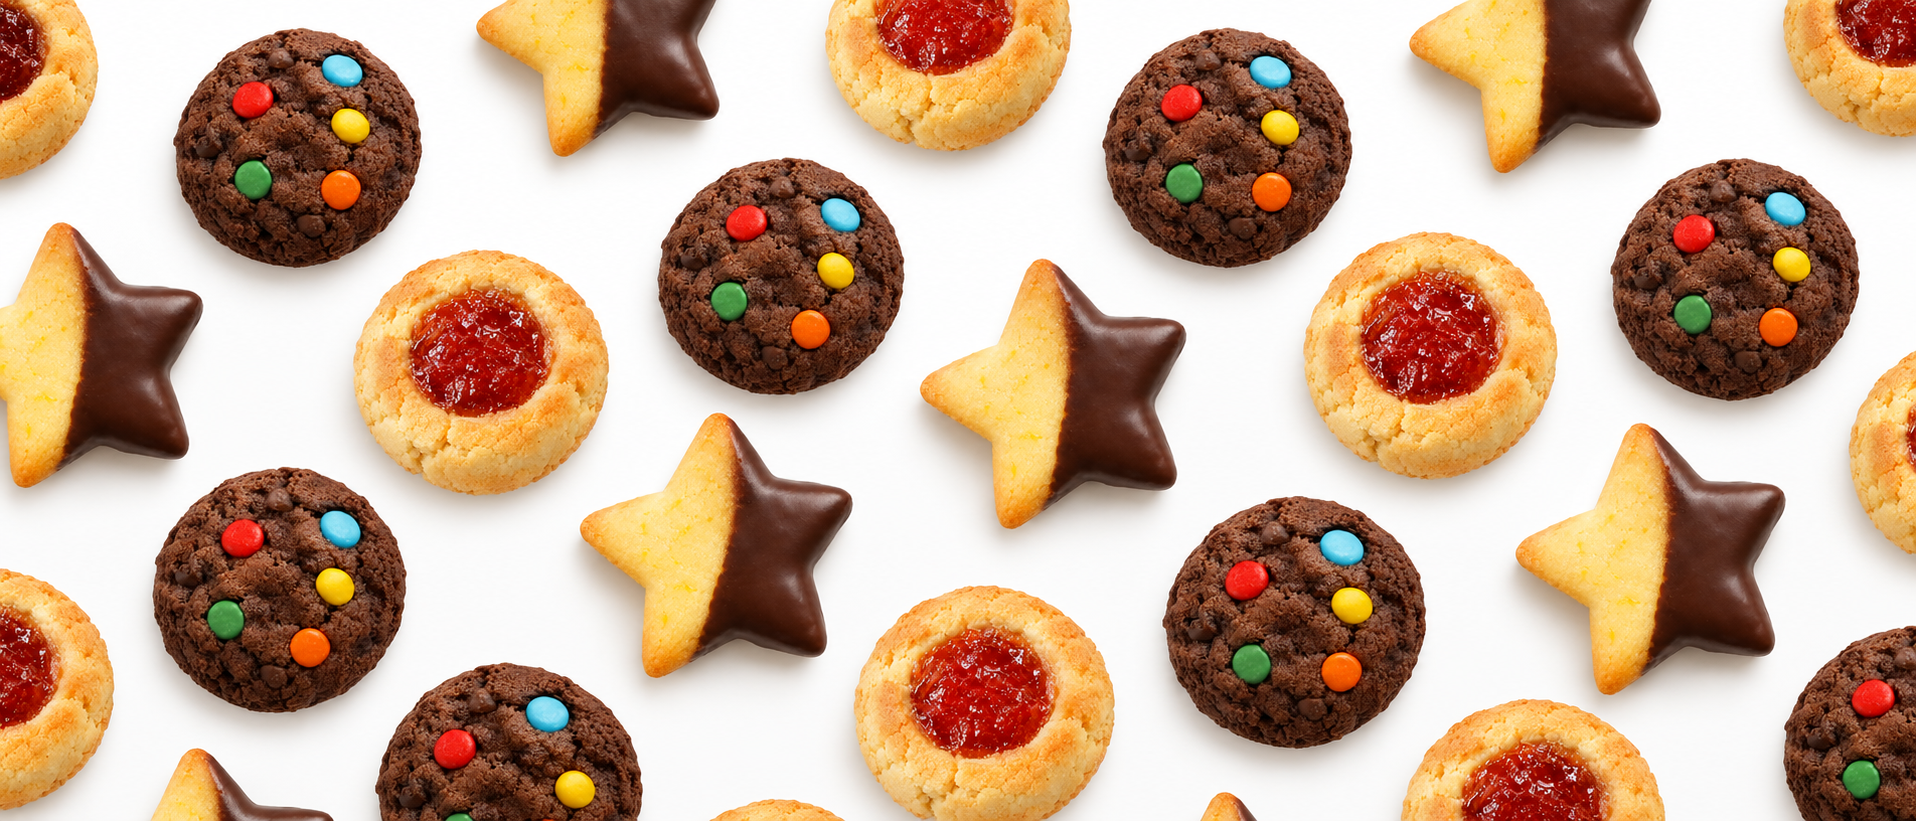
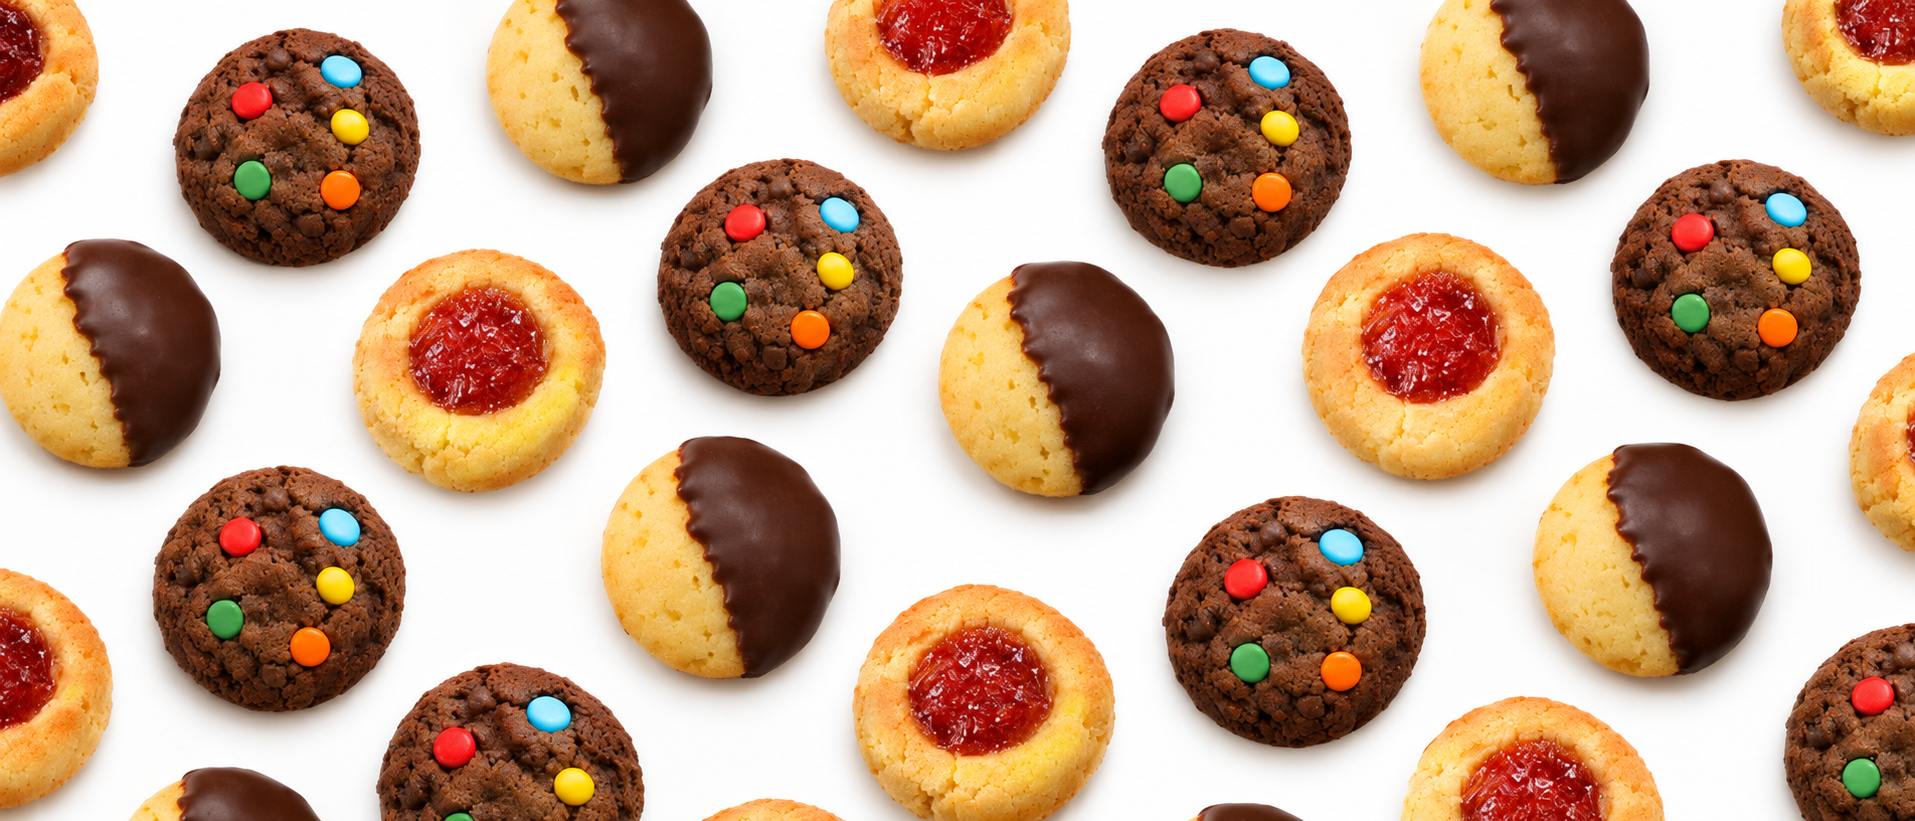
Correcciones de surtido

diff --git a/pedidos-app/public/js/pedido.js b/pedidos-app/public/js/pedido.js
@@ -54,9 +54,9 @@ function crearSurtido() {
     tipo: "surtido",
 
     sabores: {
-      fangio: 0,
-      locomotora: 0,
-      messi: 0
+      fangio: 2,
+      locomotora: 2,
+      messi: 2
     }
   });
 
@@ -331,10 +331,6 @@ function renderSurtido(
   index
 ) {
 
-  const total =
-    totalSurtido(paquete);
-
-
   return `
 
     <div class="paquete-item">
@@ -354,7 +350,7 @@ function renderSurtido(
             </strong>
 
             <small>
-              Elegí 6 galletitas
+              2 galletitas de cada sabor
             </small>
 
           </div>
@@ -373,47 +369,10 @@ function renderSurtido(
 
       </div>
 
-
-      ${crearFilaSabor(
-        paquete,
-        "fangio",
-        "Fangio"
-      )}
-
-
-      ${crearFilaSabor(
-        paquete,
-        "locomotora",
-        "Locomotora"
-      )}
-
-
-      ${crearFilaSabor(
-        paquete,
-        "messi",
-        "Messi"
-      )}
-
-
-      <div class="
-        surtido-total
-        ${
-          total === 6
-            ? "surtido-completo"
-            : ""
-        }
-      ">
-
-        <span>
-          Galletitas elegidas
-        </span>
-
-        <strong>
-          ${total} / 6
-        </strong>
-
+      <div class="surtido-regla">
+        <i class="fa-solid fa-circle-info"></i>
+        <span>Incluye 2 galletitas Fangio, 2 Locomotora y 2 Messi.</span>
       </div>
-
 
       <div class="paquete-precio">
         $${PRECIO_PAQUETE.toLocaleString("es-AR")}
@@ -588,7 +547,7 @@ function renderResumen() {
             Surtido · ${
               sabores.length
                 ? sabores.join(" · ")
-                : "sin completar"
+                : "2 Fangio · 2 Locomotora · 2 Messi"
             }
           </small>
         `;
@@ -737,7 +696,11 @@ document
         paquetes.find(
           paquete =>
             paquete.tipo === "surtido" &&
-            totalSurtido(paquete) !== 6
+            (
+              paquete.sabores.fangio !== 2 ||
+              paquete.sabores.locomotora !== 2 ||
+              paquete.sabores.messi !== 2
+            )
         );
 
 
@@ -746,7 +709,7 @@ document
         mostrarModalPedido(
   "error",
   "Paquete incompleto",
-  "Cada paquete surtido debe tener exactamente 6 galletitas."
+  "Cada paquete surtido debe tener exactamente 2 galletitas de cada sabor."
 );
 
         return;

diff --git a/pedidos-app/public/pedido.html b/pedidos-app/public/pedido.html
@@ -124,7 +124,7 @@
 
                   <p>
                     Podés agregar todos los paquetes que quieras.
-                    Cada paquete trae 6 galletitas.
+                    Cada paquete trae 6 galletitas. Los surtidos siempre incluyen 2 de cada sabor.
                   </p>
                 </div>
 
@@ -178,7 +178,7 @@
                     </strong>
 
                     <small>
-                      Combiná 6 galletitas
+                      2 Fangio, 2 Locomotora y 2 Messi
                     </small>
 
                     <b>$3.500</b>
@@ -210,7 +210,7 @@
                   <h3>Tu selección</h3>
 
                   <p>
-                    Personalizá cada paquete por separado.
+                    Elegí el sabor de cada clásico. Los surtidos ya vienen con 2 de cada sabor.
                   </p>
                 </div>
 

diff --git a/pedidos-app/public/index.html b/pedidos-app/public/index.html
@@ -238,8 +238,8 @@
           <h2>Nuestros precios</h2>
 
           <p>
-            Cada paquete trae 6 galletitas. Elegí una variedad
-            o combiná tus favoritas.
+                Cada paquete trae 6 galletitas. Elegí una variedad clásica
+                o llevá el surtido con 2 galletitas de cada sabor.
           </p>
         </div>
 
@@ -284,7 +284,7 @@
               <h3>Paquete surtido</h3>
 
               <p>
-                6 galletitas combinando diferentes sabores.
+                2 Fangio, 2 Locomotora y 2 Messi.
               </p>
 
               <div class="price">$3.500</div>

diff --git a/pedidos-app/public/css/styles.css b/pedidos-app/public/css/styles.css
@@ -2537,6 +2537,33 @@ textarea {
   background: #e4e7cf;
 }
 
+.surtido-regla {
+  display: grid;
+  grid-template-columns: auto 1fr;
+  gap: 0 9px;
+  margin-top: 12px;
+  padding: 13px 14px;
+  border: 1px solid var(--border);
+  border-radius: 12px;
+  background: #f7ede3;
+  color: var(--primary-dark);
+  font-size: 0.88rem;
+}
+
+.surtido-regla i {
+  grid-row: 1 / 3;
+  align-self: center;
+  color: var(--primary-light);
+}
+
+.surtido-regla strong {
+  font-size: 0.92rem;
+}
+
+.surtido-regla span {
+  color: var(--muted);
+}
+
 
 /* =========================
    VACÍO
